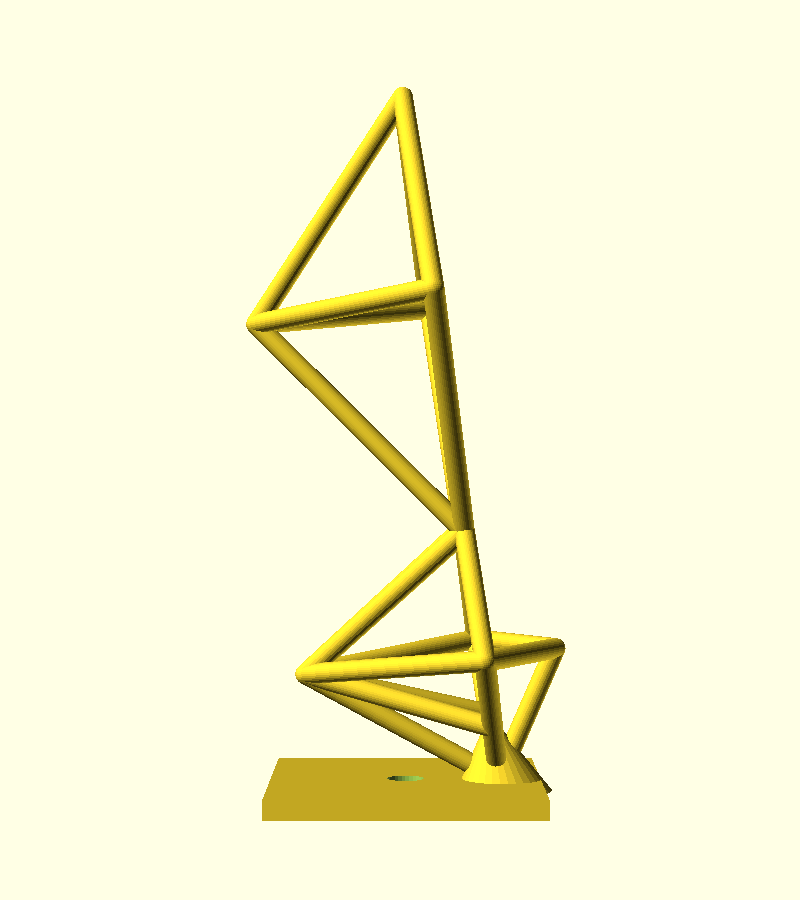
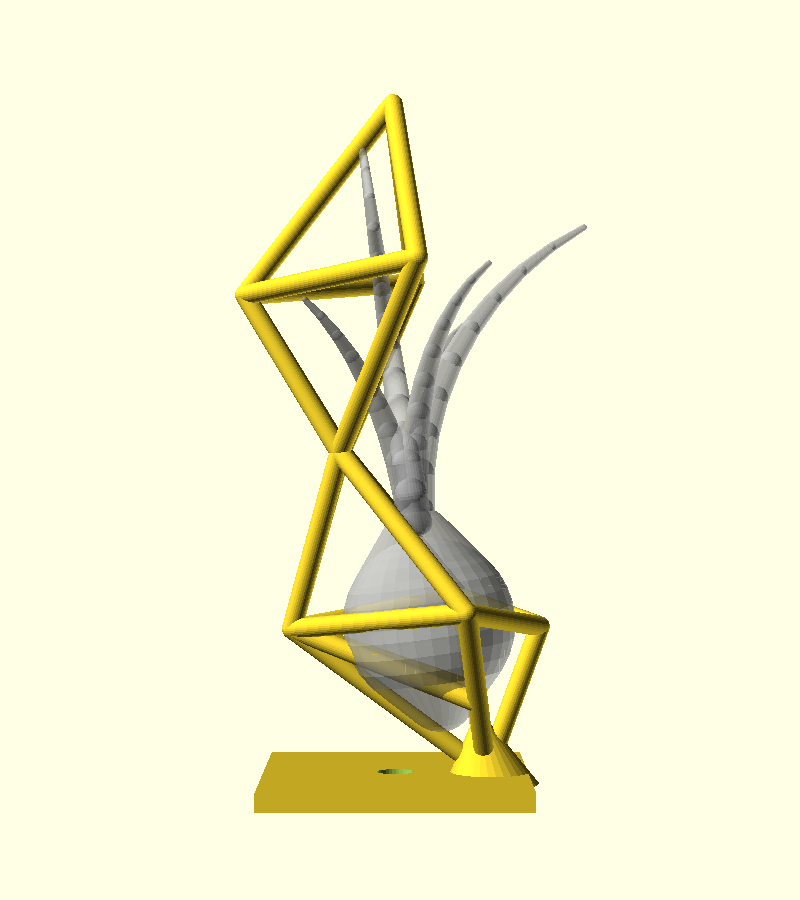
Equalize section heights, recess waist bar, add reference plant
- Waist now sits at the midpoint so both diamond sections are 74mm
- Waist bar pulled 22mm behind the front frame so it no longer pushes
  the plant forward; front frame dips back to it and returns
- Add a background-modifier plant model (teardrop bulb, recurving
  leaves, tall wavy center leaf per the photo) positioned where the
  bulb naturally wedges — visible in previews, excluded from the STL
- STL re-exported and validated

Claude-Session: https://claude.ai/code/session_01KA6Q5hMYxLc6YU5N6bdmxn

Changed region(s): [[0.2812, 0.0933, 0.7188, 0.9333], [0.6875, 0.2489, 0.75, 0.28]]

diff --git a/models/air_plant_holder/README.md b/models/air_plant_holder/README.md
@@ -12,15 +12,17 @@ A geometric display stand for the tall Tillandsia (the leftmost plant, caput-med
 
 ## Model dimensions
 
-- Overall height: ~152mm
+- Overall height: ~152mm; both sections are equal height (74mm each, waist at the midpoint)
 - Cage incline: 8° backward, pivoting at the base contact so the plant sits reclined
 - Base plate: 64 × 58 × 4mm, flat for table placement, with an 8mm drainage hole under the bulb
 - Struts: 4.4mm diameter round
 - Lower diamond: 54mm wide, with cradle ribs running back to its apex that support the bulb
 - Front scoop: the bottom section's corners converge on an apex 16mm in front of the front frame, catching the reclined bulb
 - Upper diamond: 68mm wide
+- Waist bar recessed 22mm behind the front frame so it doesn't push the plant out
 - Each diamond's four corners converge on a back apex vertex 22mm behind center — the popped-out crystal profile
 - Conical gusset reinforces the single bottom-vertex contact with the base
+- A reference plant model (bulb + leaves, `%` modifier) shows in previews to check fit but is excluded from the STL
 
 ## Design intent
 